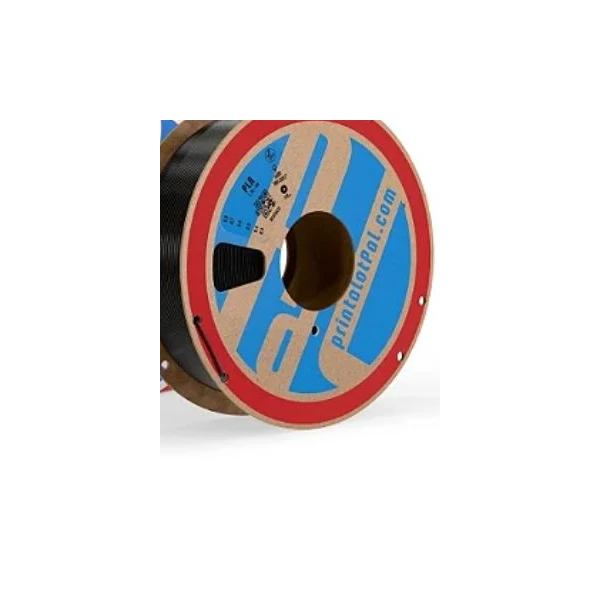
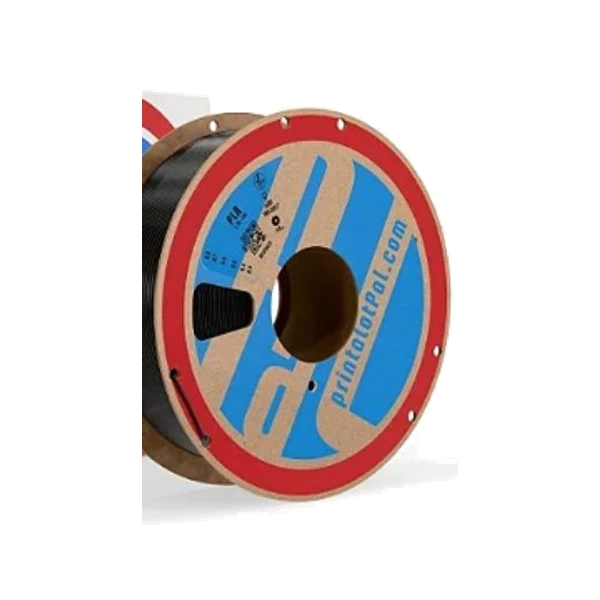
fix: resolve filament images, remove toy tank, fix printalot crop, and eliminate legacy image from TPU/Support/eSun

Changed region(s): [[0.21, 0.15, 0.78, 0.87]]

diff --git a/src/data/products.js b/src/data/products.js
@@ -1495,7 +1495,7 @@ const BASE_PRODUCTS = [
     "installmentValue": 52.28,
     "pixDiscountPercent": 10,
     "pixPrice": 282.28,
-    "image": "/images/filament-bambulab-pla-lite.png",
+    "image": "/images/filaments/bambu-petg-basic.webp",
     "badge": "EMBORRACHADO",
     "promoTag": "black-friday",
     "rating": 5,
@@ -1554,7 +1554,7 @@ const BASE_PRODUCTS = [
     "installmentValue": 20.85,
     "pixDiscountPercent": 10,
     "pixPrice": 112.59,
-    "image": "/images/filament-bambulab-pla-lite.png",
+    "image": "/images/filaments/bambu-pla-lite.png",
     "badge": "SOLÚVEL & DESCOLÁVEL",
     "promoTag": "black-november",
     "rating": 5,
@@ -1774,7 +1774,7 @@ const BASE_PRODUCTS = [
     "installmentValue": 20.82,
     "pixDiscountPercent": 10,
     "pixPrice": 112.44,
-    "image": "/images/filament-bambulab-pla-lite.png",
+    "image": "/images/filaments/bambu-pla-silk.webp",
     "badge": "BICOLOR & HS",
     "promoTag": "black-november",
     "rating": 4.9,
